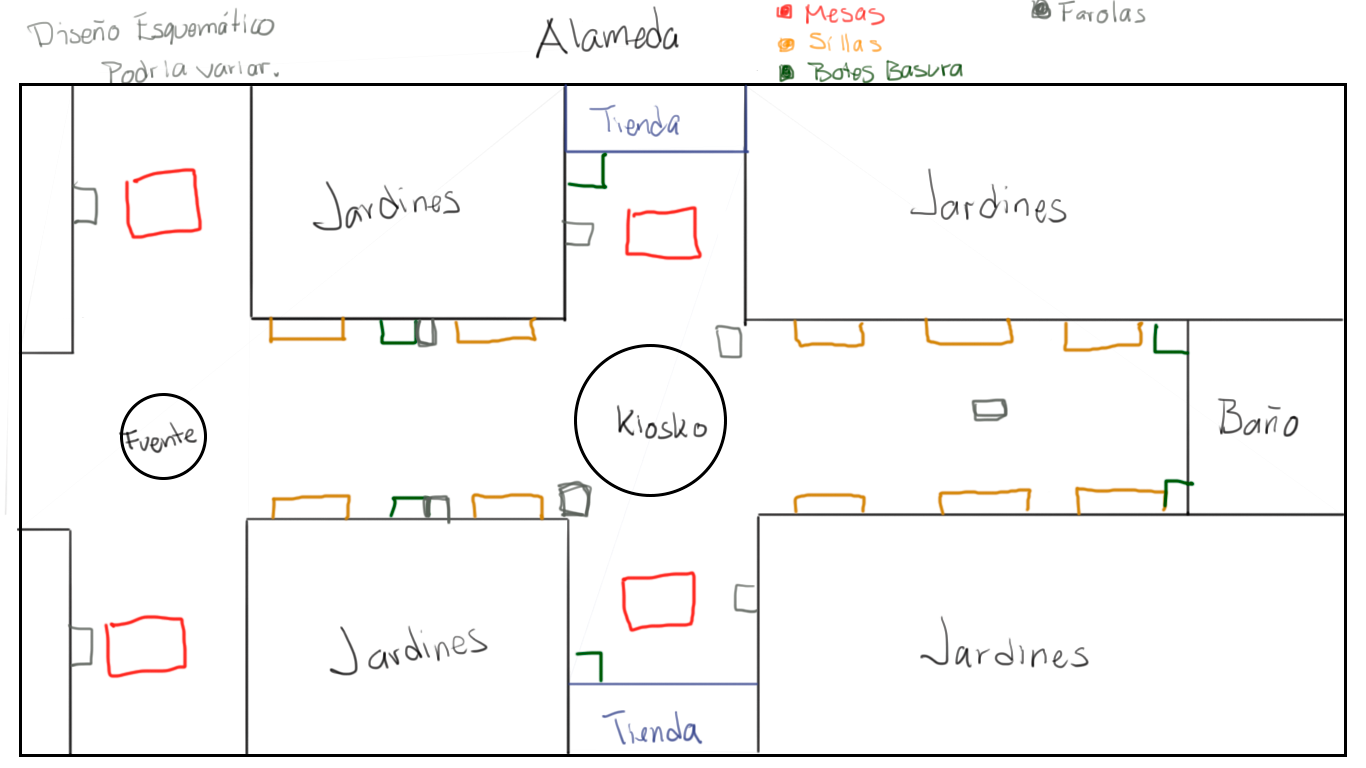
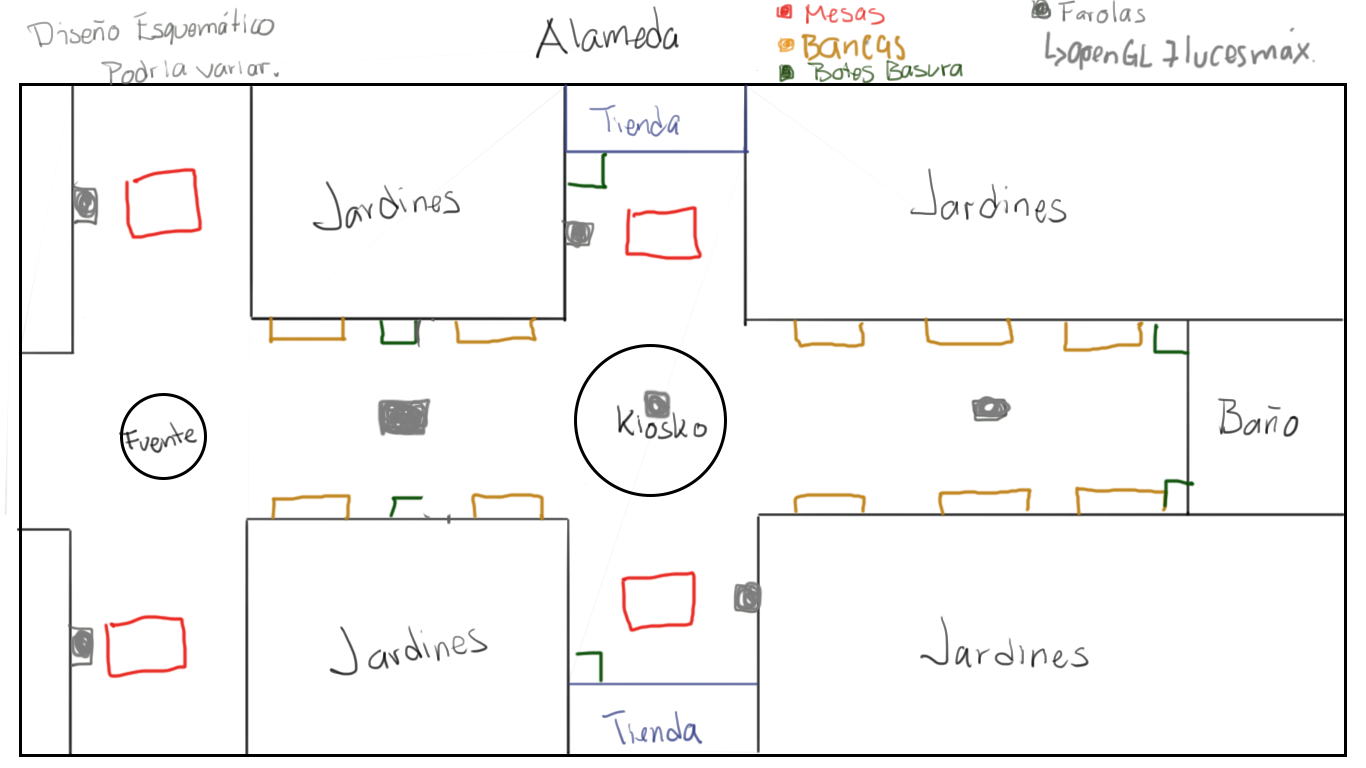
Bancas y efecto madera
Agregue las bancas y, por azar del destino, di con un buen efecto de madera con las texturas.

Este efecto planeo solo usarlo en lo que conlleve madera, los cilindros se ven como si fueran troncos cortados medio low poly. Curioso efecto.

diff --git a/ProyectoCG2020-2-LeoOchoa/main.cpp b/ProyectoCG2020-2-LeoOchoa/main.cpp
@@ -752,9 +752,11 @@ void createPlancha() {
 /*********** FENCES ***********/
 void fence3(GLuint text, GLuint text2) {
 	glPushMatrix();
-		brick.brick1_1_1(text, text2);
+		//brick.brick1_1_1(text, text2);
+		brick.prisma(1.0, 1.0, 1.0, text);
 		glTranslatef(0.0, 1.0, 0.0);
-		brick.brick1_1_1(text, text2);
+		//brick.brick1_1_1(text, text2);
+		brick.prisma(1.0, 1.0, 1.0, text);
 		glPushMatrix();
 			glTranslatef(1.0, 0.0, 0.0);
 			brick.brick1_1_1(text, text2);
@@ -767,9 +769,11 @@ void fence3(GLuint text, GLuint text2) {
 }
 void fence4(GLuint text, GLuint text2) {
 	glPushMatrix();
-		brick.brick1_1_1(text, text2);
+		//brick.brick1_1_1(text, text2);
+		brick.prisma(1.0, 1.0, 1.0, text);
 		glTranslatef(0.0, 1.0, 0.0);
-		brick.brick1_1_1(text, text2);
+		brick.prisma(1.0, 1.0, 1.0, text);
+		//brick.brick1_1_1(text, text2);
 		glPushMatrix();
 			glTranslatef(1.0, 0.0, 0.0);
 			brick.brick1_1_1(text, text2);
@@ -787,25 +791,25 @@ void fenceA() {
 		glTranslatef(23.0, 0.0, 0.0);
 		glRotatef(-90.0, 0.0, 1.0, 0.0);
 		for (int i = 0; i < 10; i++) {
-			fence3(t_madera.GLindex, t_madera2.GLindex);
+			fence3(t_madera.GLindex, t_maderaO.GLindex);
 			glTranslatef(3.0, 0.0, 0.0);
 		}
 		glRotatef(90.0, 0.0, 1.0, 0.0);
 		for (int j = 0; j < 10; j++) {
-			fence4(t_madera.GLindex, t_madera2.GLindex);
+			fence4(t_madera.GLindex, t_maderaO.GLindex);
 			glTranslatef(4.0, 0.0, 0.0);
 		}
 		glRotatef(90.0, 0.0, 1.0, 0.0);
 		for (int i = 0; i < 10; i++) {
-			fence3(t_madera.GLindex, t_madera2.GLindex);
+			fence3(t_madera.GLindex, t_maderaO.GLindex);
 			glTranslatef(3.0, 0.0, 0.0);
 		}
 		glPushMatrix();
-			brick.brick1_1_1(t_madera.GLindex, t_madera2.GLindex);
+			brick.prisma(1.0, 1.0, 1.0, t_madera.GLindex);
 			glTranslatef(0.0, 1.0, 0.0);
-			brick.brick1_1_1(t_madera.GLindex, t_madera2.GLindex);
+			brick.prisma(1.0, 1.0, 1.0, t_madera.GLindex);
 			glTranslatef(0.0, 1.0, 0.0);
-			brick.brick1_1_1(t_madera.GLindex, t_madera2.GLindex);
+			brick.brick1_1_1(t_madera.GLindex, t_maderaO.GLindex);
 		glPopMatrix();
 	glPopMatrix();
 }
@@ -814,25 +818,25 @@ void fenceB() {
 		glTranslatef(83.0, 0.0, 0.0);
 		glRotatef(-90.0, 0.0, 1.0, 0.0);
 		for (int i = 0; i < 10; i++) {
-			fence3(t_madera.GLindex, t_madera2.GLindex);
+			fence3(t_madera.GLindex, t_maderaO.GLindex);
 			glTranslatef(3.0, 0.0, 0.0);
 		}
 		glRotatef(90.0, 0.0, 1.0, 0.0);
 		for (int j = 0; j < 20; j++) {
-			fence4(t_madera.GLindex, t_madera2.GLindex);
+			fence4(t_madera.GLindex, t_maderaO.GLindex);
 			glTranslatef(4.0, 0.0, 0.0);
 		}
 		glRotatef(90.0, 0.0, 1.0, 0.0);
 		for (int i = 0; i < 10; i++) {
-			fence3(t_madera.GLindex, t_madera2.GLindex);
+			fence3(t_madera.GLindex, t_maderaO.GLindex);
 			glTranslatef(3.0, 0.0, 0.0);
 		}
 		glPushMatrix();
-			brick.brick1_1_1(t_madera.GLindex, t_madera2.GLindex);
+			brick.prisma(1.0, 1.0, 1.0, t_madera.GLindex);
 			glTranslatef(0.0, 1.0, 0.0);
-			brick.brick1_1_1(t_madera.GLindex, t_madera2.GLindex);
+			brick.prisma(1.0, 1.0, 1.0, t_madera.GLindex);
 			glTranslatef(0.0, 1.0, 0.0);
-			brick.brick1_1_1(t_madera.GLindex, t_madera2.GLindex);
+			brick.brick1_1_1(t_madera.GLindex, t_maderaO.GLindex);
 		glPopMatrix();
 	glPopMatrix();
 }
@@ -841,25 +845,25 @@ void fenceC() {
 		glTranslatef(83.0, 0.0, 89.0);
 		glRotatef(90.0, 0.0, 1.0, 0.0);
 		for (int i = 0; i < 10; i++) {
-			fence3(t_madera.GLindex, t_madera2.GLindex);
+			fence3(t_madera.GLindex, t_maderaO.GLindex);
 			glTranslatef(3.0, 0.0, 0.0);
 		}
 		glRotatef(-90.0, 0.0, 1.0, 0.0);
 		for (int j = 0; j < 20; j++) {
-			fence4(t_madera.GLindex, t_madera2.GLindex);
+			fence4(t_madera.GLindex, t_maderaO.GLindex);
 			glTranslatef(4.0, 0.0, 0.0);
 		}
 		glRotatef(-90.0, 0.0, 1.0, 0.0);
 		for (int i = 0; i < 10; i++) {
-			fence3(t_madera.GLindex, t_madera2.GLindex);
+			fence3(t_madera.GLindex, t_maderaO.GLindex);
 			glTranslatef(3.0, 0.0, 0.0);
 		}
 		glPushMatrix();
-			brick.brick1_1_1(t_madera.GLindex, t_madera2.GLindex);
+			brick.prisma(1.0, 1.0, 1.0, t_madera.GLindex);
 			glTranslatef(0.0, 1.0, 0.0);
-			brick.brick1_1_1(t_madera.GLindex, t_madera2.GLindex);
+			brick.prisma(1.0, 1.0, 1.0, t_madera.GLindex);
 			glTranslatef(0.0, 1.0, 0.0);
-			brick.brick1_1_1(t_madera.GLindex, t_madera2.GLindex);
+			brick.brick1_1_1(t_madera.GLindex, t_maderaO.GLindex);
 		glPopMatrix();
 	glPopMatrix();
 }
@@ -868,25 +872,25 @@ void fenceD() {
 		glTranslatef(23.0, 0.0, 89.0);
 		glRotatef(90.0, 0.0, 1.0, 0.0);
 		for (int i = 0; i < 10; i++) {
-			fence3(t_madera.GLindex, t_madera2.GLindex);
+			fence3(t_madera.GLindex, t_maderaO.GLindex);
 			glTranslatef(3.0, 0.0, 0.0);
 		}
 		glRotatef(-90.0, 0.0, 1.0, 0.0);
 		for (int j = 0; j < 10; j++) {
-			fence4(t_madera.GLindex, t_madera2.GLindex);
+			fence4(t_madera.GLindex, t_maderaO.GLindex);
 			glTranslatef(4.0, 0.0, 0.0);
 		}
 		glRotatef(-90.0, 0.0, 1.0, 0.0);
 		for (int i = 0; i < 10; i++) {
-			fence3(t_madera.GLindex, t_madera2.GLindex);
+			fence3(t_madera.GLindex, t_maderaO.GLindex);
 			glTranslatef(3.0, 0.0, 0.0);
 		}
 		glPushMatrix();
-			brick.brick1_1_1(t_madera.GLindex, t_madera2.GLindex);
+			brick.prisma(1.0, 1.0, 1.0, t_madera.GLindex);
 			glTranslatef(0.0, 1.0, 0.0);
-			brick.brick1_1_1(t_madera.GLindex, t_madera2.GLindex);
+			brick.prisma(1.0, 1.0, 1.0, t_madera.GLindex);
 			glTranslatef(0.0, 1.0, 0.0);
-			brick.brick1_1_1(t_madera.GLindex, t_madera2.GLindex);
+			brick.brick1_1_1(t_madera.GLindex, t_maderaO.GLindex);
 		glPopMatrix();
 	glPopMatrix();
 }
@@ -901,6 +905,75 @@ void createFences() {
 	glPopMatrix();
 };
 /*********** TIENDAS ***********/
+/*********** BANCAS	 ***********/
+void createBanca(GLuint text, GLuint text2, GLuint text3) {
+	glPushMatrix();
+		// Pata izquierda
+		glPushMatrix();
+			glTranslatef(-1.5, 0.5, 0.0);
+			brick.prisma(1.0, 1.0, 1.0, text);
+			glTranslatef(0.0, 1.0, 0.0);
+			brick.prisma(1.0, 1.0, 1.0, text);
+		glPopMatrix();
+		// Pata Derecha
+		glPushMatrix();
+			glTranslatef(1.5, 0.5, 0.0);
+			brick.prisma(1.0, 1.0, 1.0, text);
+			glTranslatef(0.0, 1.0, 0.0);
+			brick.prisma(1.0, 1.0, 1.0, text);
+		glPopMatrix();
+		glPushMatrix();
+			glTranslatef(0.0, 2.15, 0.0);
+			brick.flatV(8.0, 3.0, text3, text2);
+		glPopMatrix();
+	glPopMatrix();
+}
+void createBancas(GLuint text, GLuint text2, GLuint text3) {
+	// textura de prisma, textura de flat, textura de cilindro
+	glPushMatrix();
+		glTranslatef(-82.0, -0.5, 0.0);
+		// Sector A1
+		glTranslatef(24.0 + 10.0, 0.0, -12.0);
+		createBanca(text, text2, text3);
+		glPushMatrix();
+			// Sector B1
+			glTranslatef(0.0, 0.0, 24.0);
+			createBanca(text, text2, text3);
+		glPopMatrix();
+		//Sector A2
+		glTranslatef(19.0, 0.0, 0.0);
+		createBanca(text, text2, text3);
+		glPushMatrix();
+			//Sector B2
+			glTranslatef(0.0, 0.0, 24.0);
+			createBanca(text, text2, text3);
+		glPopMatrix();
+		//Sector C1
+		glTranslatef(42.0, 0.0, 0.0);
+		createBanca(text, text2, text3);
+		glPushMatrix();
+			//Sector D1
+			glTranslatef(0.0, 0.0, 24.0);
+			createBanca(text, text2, text3);
+		glPopMatrix();
+		//Sector C2
+		glTranslatef(18.0, 0.0, 0.0);
+		createBanca(text, text2, text3);
+		glPushMatrix();
+			//Sector D2
+			glTranslatef(0.0, 0.0, 24.0);
+			createBanca(text, text2, text3);
+		glPopMatrix();
+		//Sector C3
+		glTranslatef(18.0, 0.0, 0.0);
+		createBanca(text, text2, text3);
+		glPushMatrix();
+			//Sector D3
+			glTranslatef(0.0, 0.0, 24.0);
+			createBanca(text, text2, text3);
+		glPopMatrix();
+	glPopMatrix();
+}
 /*********** KIOSKO	 ***********/
 /*********** FUENTE	 ***********/
 /*********** FACHADA ***********/
@@ -1044,6 +1117,12 @@ void display(void)   // Creamos la funcion donde se dibuja
 		createPlancha();
 		glTranslatef(0.0, 0.6, 0.0);
 		createFences();
+		glPushMatrix();
+			//glTranslatef(0.0, 2.0, 0.0);
+			//brick.slope1_2(t_madera.GLindex, t_madera2.GLindex);
+			//brick.slopeV(10.0, 1.0, t_madera.GLindex, t_madera2.GLindex);
+			createBancas(t_carbon.GLindex, t_madera.GLindex, t_maderaO.GLindex);
+		glPopMatrix();
 	glPopMatrix();
 
 

diff --git a/ProyectoCG2020-2-LeoOchoa/Resources/librerias/figuras.cpp b/ProyectoCG2020-2-LeoOchoa/Resources/librerias/figuras.cpp
@@ -788,3 +788,120 @@ void CFiguras::flatV(float x, float z, GLuint text, GLuint text2) {
 		}
 	glPopMatrix();
 }
+
+void CFiguras::slope1_2(GLuint text, GLuint text2) {
+	GLfloat vertice[10][3] = {
+		{0.5 ,-0.5, 0.5},    //Coordenadas Vértice 0 V0
+		{-0.5 ,-0.5, 0.5},    //Coordenadas Vértice 1 V1
+		{-0.5 ,-0.5, -0.5},    //Coordenadas Vértice 2 V2
+		{0.5 ,-0.5, -0.5},    //Coordenadas Vértice 3 V3
+		{0.5 ,0.5, 0.5},    //Coordenadas Vértice 4 V4
+		{0.5 ,0.5, -0.5},    //Coordenadas Vértice 5 V5
+		{-0.5 ,0.5, -0.5},    //Coordenadas Vértice 6 V6
+		{-0.5 ,0.5, 0.5},    //Coordenadas Vértice 7 V7
+		{-0.5 ,-0.5, 1.5},    //Coordenadas Vértice 8 V7
+		{0.5 ,-0.5, 1.5},    //Coordenadas Vértice 9 V7
+	};
+	glPushMatrix();
+		//prisma(1.0, 1.0, 1.0, text);
+		brick1_1_1(text, text2);
+		glBindTexture(GL_TEXTURE_2D, text);   // choose the texture to use.
+		glBegin(GL_POLYGON);	//Alfa
+			//glColor3f(0.0,0.0,1.0);
+			// 8 7 1
+			glNormal3f(0.0f, 0.0f, 1.0f);
+			glTexCoord2f(1.0f, 0.0f); glVertex3fv(vertice[8]);
+			glTexCoord2f(1.0f, 1.0f); glVertex3fv(vertice[7]);
+			glTexCoord2f(0.0f, 1.0f); glVertex3fv(vertice[1]);
+		glEnd();
+		glBegin(GL_POLYGON);	//Beta
+			//glColor3f(0.0,0.0,1.0);
+			// 9 4 7 8
+			glNormal3f(0.0f, 0.0f, 1.0f);
+			glTexCoord2f(1.0f, 0.0f); glVertex3fv(vertice[9]);
+			glTexCoord2f(1.0f, 1.0f); glVertex3fv(vertice[4]);
+			glTexCoord2f(0.0f, 1.0f); glVertex3fv(vertice[7]);
+			glTexCoord2f(0.0f, 1.0f); glVertex3fv(vertice[8]);
+		glEnd();
+		glBegin(GL_POLYGON);	//Gamma
+			//glColor3f(0.0,0.0,1.0);
+			// 9 8 1 0
+			glNormal3f(0.0f, 0.0f, 1.0f);
+			glTexCoord2f(1.0f, 0.0f); glVertex3fv(vertice[9]);
+			glTexCoord2f(1.0f, 1.0f); glVertex3fv(vertice[8]);
+			glTexCoord2f(0.0f, 1.0f); glVertex3fv(vertice[1]);
+			glTexCoord2f(0.0f, 1.0f); glVertex3fv(vertice[0]);
+		glEnd();
+		glBegin(GL_POLYGON);	//Delta
+			//glColor3f(0.0,0.0,1.0);
+			// 0 9 4
+			glNormal3f(0.0f, 0.0f, 1.0f);
+			glTexCoord2f(1.0f, 0.0f); glVertex3fv(vertice[0]);
+			glTexCoord2f(1.0f, 1.0f); glVertex3fv(vertice[9]);
+			glTexCoord2f(0.0f, 1.0f); glVertex3fv(vertice[4]);
+		glEnd();
+	glPopMatrix();
+}
+
+void CFiguras::slopeV(float x, float z, GLuint text, GLuint text2) {
+	GLfloat vertice[10][3] = {
+		{0.5 * x ,-0.5 * 1.0, 0.5 * z},    //Coordenadas Vértice 1 V0
+		{-0.5 * x ,-0.5 * 1.0 , 0.5 * z},    //Coordenadas Vértice 2 V1
+		{-0.5 * x ,-0.5 * 1.0 , -0.5 * z},    //Coordenadas Vértice 3 V2
+		{0.5 * x ,-0.5 * 1.0 , -0.5 * z},    //Coordenadas Vértice 4 V3
+		{0.5 * x ,0.5 * 1.0 , 0.5 * z},    //Coordenadas Vértice 5 V4
+		{0.5 * x ,0.5 * 1.0 , -0.5 * z},    //Coordenadas Vértice 6 V5
+		{-0.5 * x ,0.5 * 1.0 , -0.5 * z},    //Coordenadas Vértice 7 V6
+		{-0.5 * x ,0.5 * 1.0 , 0.5 * z},    //Coordenadas Vértice 8 V7
+		{-0.5 * x,-0.5 * 1.0 , 0.5 * z + 1.0},    //Coordenadas Vértice 9 V8
+		{0.5 * x ,-0.5 * 1.0 , 0.5 * z + 1.0},    //Coordenadas Vértice 10 V9
+	};
+	glPushMatrix();
+		prisma(1.0, x, z, text);
+		glBindTexture(GL_TEXTURE_2D, text);   // choose the texture to use.
+		glBegin(GL_POLYGON);	//Alfa
+			//glColor3f(0.0,0.0,1.0);
+			// 8 7 1
+		glNormal3f(0.0f, 0.0f, 1.0f);
+			glTexCoord2f(1.0f, 0.0f); glVertex3fv(vertice[8]);
+			glTexCoord2f(1.0f, 1.0f); glVertex3fv(vertice[7]);
+			glTexCoord2f(0.0f, 1.0f); glVertex3fv(vertice[1]);
+		glEnd();
+		glBegin(GL_POLYGON);	//Beta
+			//glColor3f(0.0,0.0,1.0);
+			// 9 4 7 8
+		glNormal3f(0.0f, 0.0f, 1.0f);
+			glTexCoord2f(1.0f, 0.0f); glVertex3fv(vertice[9]);
+			glTexCoord2f(1.0f, 1.0f); glVertex3fv(vertice[4]);
+			glTexCoord2f(0.0f, 1.0f); glVertex3fv(vertice[7]);
+			glTexCoord2f(0.0f, 1.0f); glVertex3fv(vertice[8]);
+		glEnd();
+		glBegin(GL_POLYGON);	//Gamma
+			//glColor3f(0.0,0.0,1.0);
+			// 9 8 1 0
+		glNormal3f(0.0f, 0.0f, 1.0f);
+			glTexCoord2f(1.0f, 0.0f); glVertex3fv(vertice[9]);
+			glTexCoord2f(1.0f, 1.0f); glVertex3fv(vertice[8]);
+			glTexCoord2f(0.0f, 1.0f); glVertex3fv(vertice[1]);
+			glTexCoord2f(0.0f, 1.0f); glVertex3fv(vertice[0]);
+		glEnd();
+		glBegin(GL_POLYGON);	//Delta
+			//glColor3f(0.0,0.0,1.0);
+			// 0 9 4
+			glNormal3f(0.0f, 0.0f, 1.0f);
+			glTexCoord2f(1.0f, 0.0f); glVertex3fv(vertice[0]);
+			glTexCoord2f(1.0f, 1.0f); glVertex3fv(vertice[9]);
+			glTexCoord2f(0.0f, 1.0f); glVertex3fv(vertice[4]);
+		glEnd();
+		glTranslatef(-(x / 2 - 0.5), 0.5, -(z / 2 - 0.5));
+		for (int i = 0; i < int(z); i++) {
+			glPushMatrix();
+			for (int j = 0; j < int(x); j++) {
+				cilindro(0.25, 0.3, 8, text2);
+				glTranslatef(1.0, 0.0, 0.0);
+			}
+			glPopMatrix();
+			glTranslatef(0.0, 0.0, 1.0);
+		}
+	glPopMatrix();
+}

diff --git a/ProyectoCG2020-2-LeoOchoa/Resources/librerias/figuras.h b/ProyectoCG2020-2-LeoOchoa/Resources/librerias/figuras.h
@@ -37,4 +37,5 @@ class CFiguras
 	void flat4_4(GLuint text, GLuint text2);
 	void plancha(GLuint text, GLuint text2);
 	void flatV(float x, float z, GLuint text, GLuint text2);
+	void slopeV(float x, float z, GLuint text, GLuint text2);
 };
